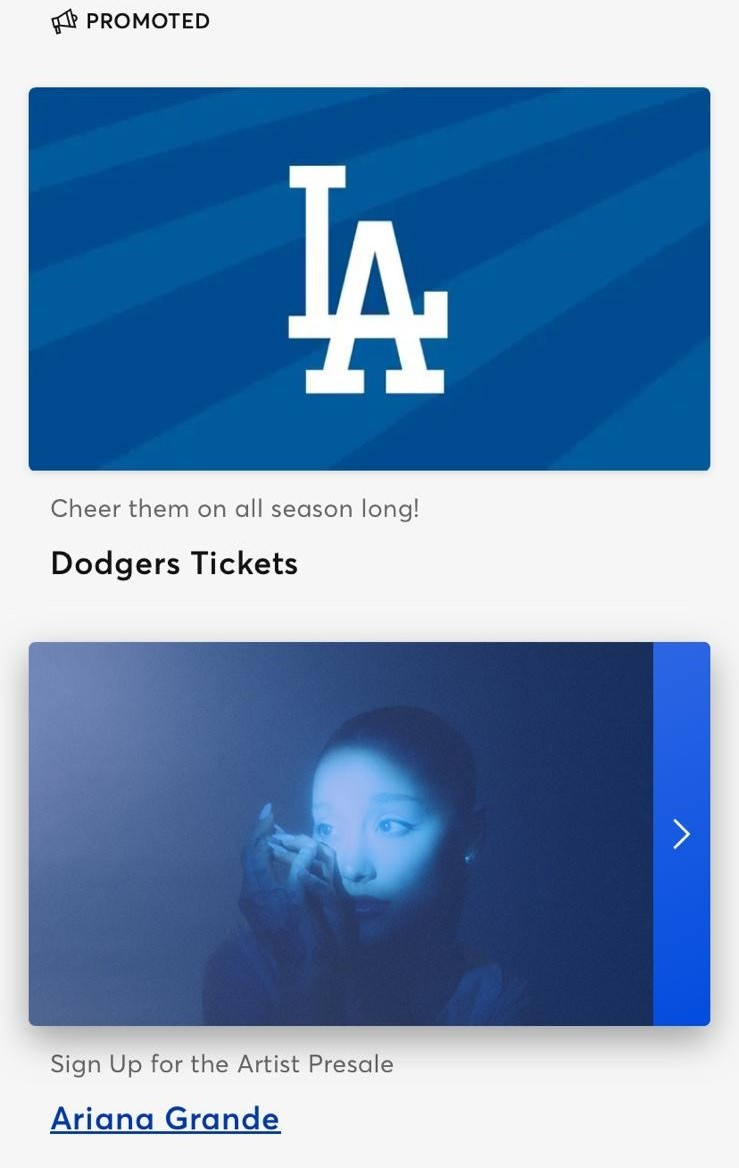
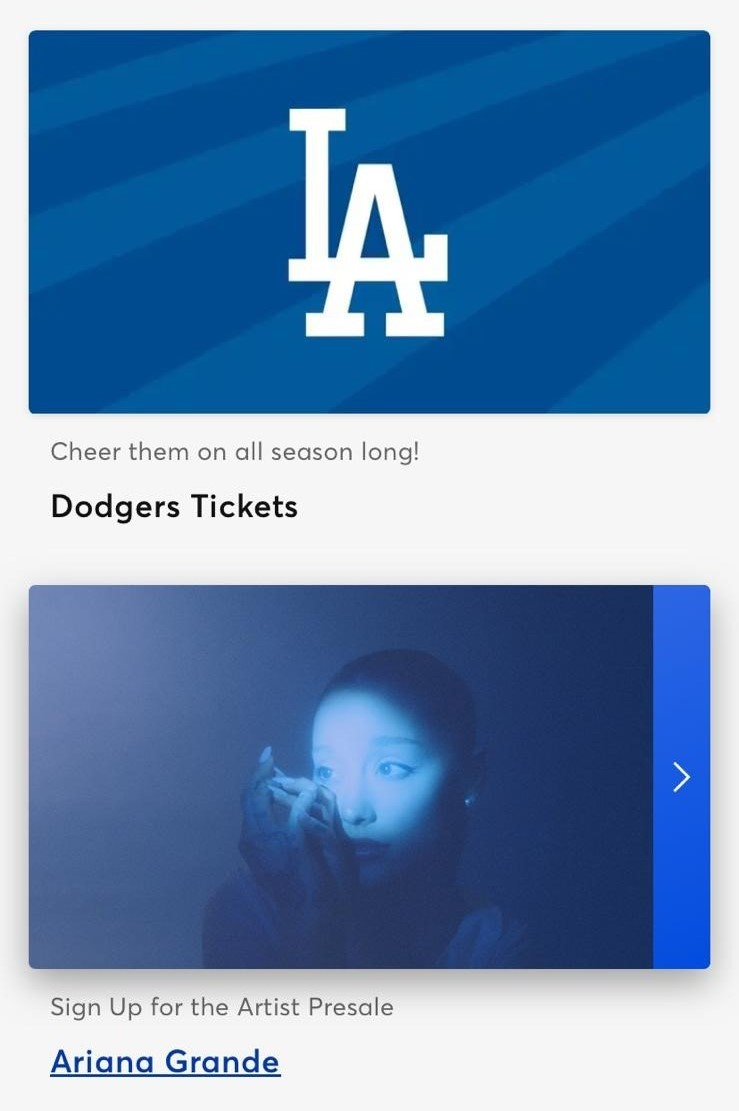
home change

diff --git a/src/views/IndexView.vue b/src/views/IndexView.vue
@@ -44,7 +44,7 @@ onUnmounted(() => {
       <img class="fixed-top" src="../assets/topfixed.jpeg" alt="" />
       <div class="first_sec">
         <img src="../assets/top2.jpeg" alt="" />
-        <img src="../assets/new-d2/111.jpeg" alt="" />
+        <img src="../assets/new-d2/ssss1.jpg" alt="" />
       </div>
       <img src="../assets/new-d2/222.jpeg" alt="" />
       <img src="../assets/new-d2/33.jpg" alt="" />
